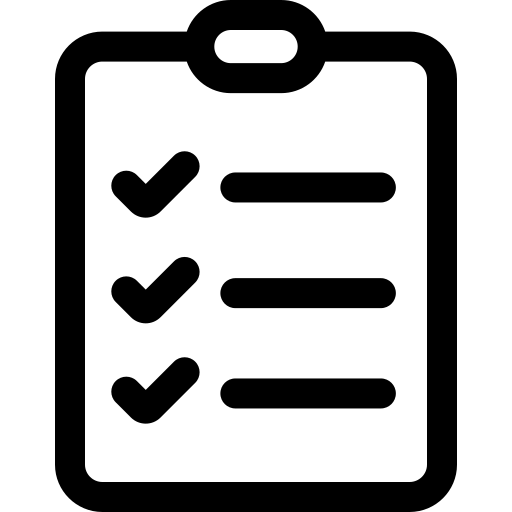
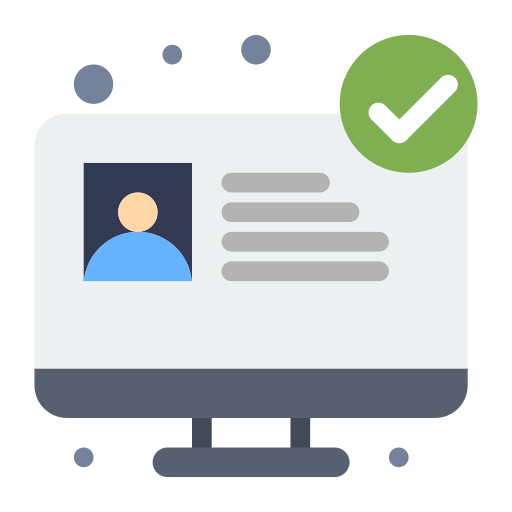
Nós terminamos a parte de cima

diff --git a/index.html b/index.html
@@ -2,35 +2,42 @@
 <html lang="pt-br">
 <head>
     <meta charset="UTF-8">
-    <link rel="stylesheet" href = "style.css">
-    <meta name="viewport" content="width=device-width initial-scale=1.0">
-<title>Ficha de Cadastro</title>
+    <link rel="stylesheet" href="style.css">
+    <meta name="viewport" content="width=device-width, initial-scale=1.0">
+    <title>Ficha de cadastro</title>
 </head>
 <body>
-   <div class="topo">
-      <div class=" image">
-        <img src="imagens/prancheta.png">
+    <div class="topo">
+      <div class="image">
+        <img src= "imagens/prancheta.png">
       </div>
-        <div class="cadastro-topo">
-           <h1>Ficha de Cadastro de Funcionário</h1>
-           <P>Formulário para coleta de dados pessoais, documentos e informações necessárias para admissão e registro interno do colaborador</P>
-        </div>
-     </div>
+        
+      <div class="cadastro-topo">
+        <h1>Ficha de cadastro de funcionário</h1>
+        <p>Formulário para coleta de dados pessoais, documentos e 
+          informações necessárias pra admissão e registro interno do colaborador.</p>
+      </div>
+    </div>
+      <div class="documentos-necessarios">
+        <div class="imagem-documentos">
+        <img src="imagens/registro.png">
+       
+        <div class="dados-left">
+          
+          <ul>
+            <li>Documento de identidade</li>
+            <li>CPF</li>
+            <li>Carteira de Trabalho (física ou digital)</li>
+            <li>Comprovante de Residência</li>
+          </ul>
 
-     <div class="documentos-necessarios">
-     <div>imagem</div>
-     <div class="dados-left">
+      </div>
+    
+    <div class="dados-right">
       <ul>
-         <li>Documento de Identidade (RG)</li>
-         <li>CPF</li>
-         <li>Carteira de Trabalho (física ou digital)</li>
-         <li>Comprovante de Residência</li>
+        <li>Título de eleitor</li>
       </ul>
-     </div>
-     <div class="dados-right">
-      <ul>
-         <li>Título de eleitor</li>
-      </ul>
-     </div>
-</body>
+    </div>
+  </div>
+    </body>
 </html>

diff --git a/style.css b/style.css
@@ -18,7 +18,7 @@ body {
 }
 
 .topo img {
-    width: 50px;
+    width: 80px;
 }
 
 .image {
@@ -46,8 +46,15 @@ flex: 4;
     border-radius: 10px;
 }
 
-.imagem-documentos{
+
+.imagem-documentos {
     flex: 1;
+    display: flex;
+    justify-content: center;
+    align-items: center;
+}
+.imagem-documentos img{
+    width: 70px;
 }
 
 .dados-left {